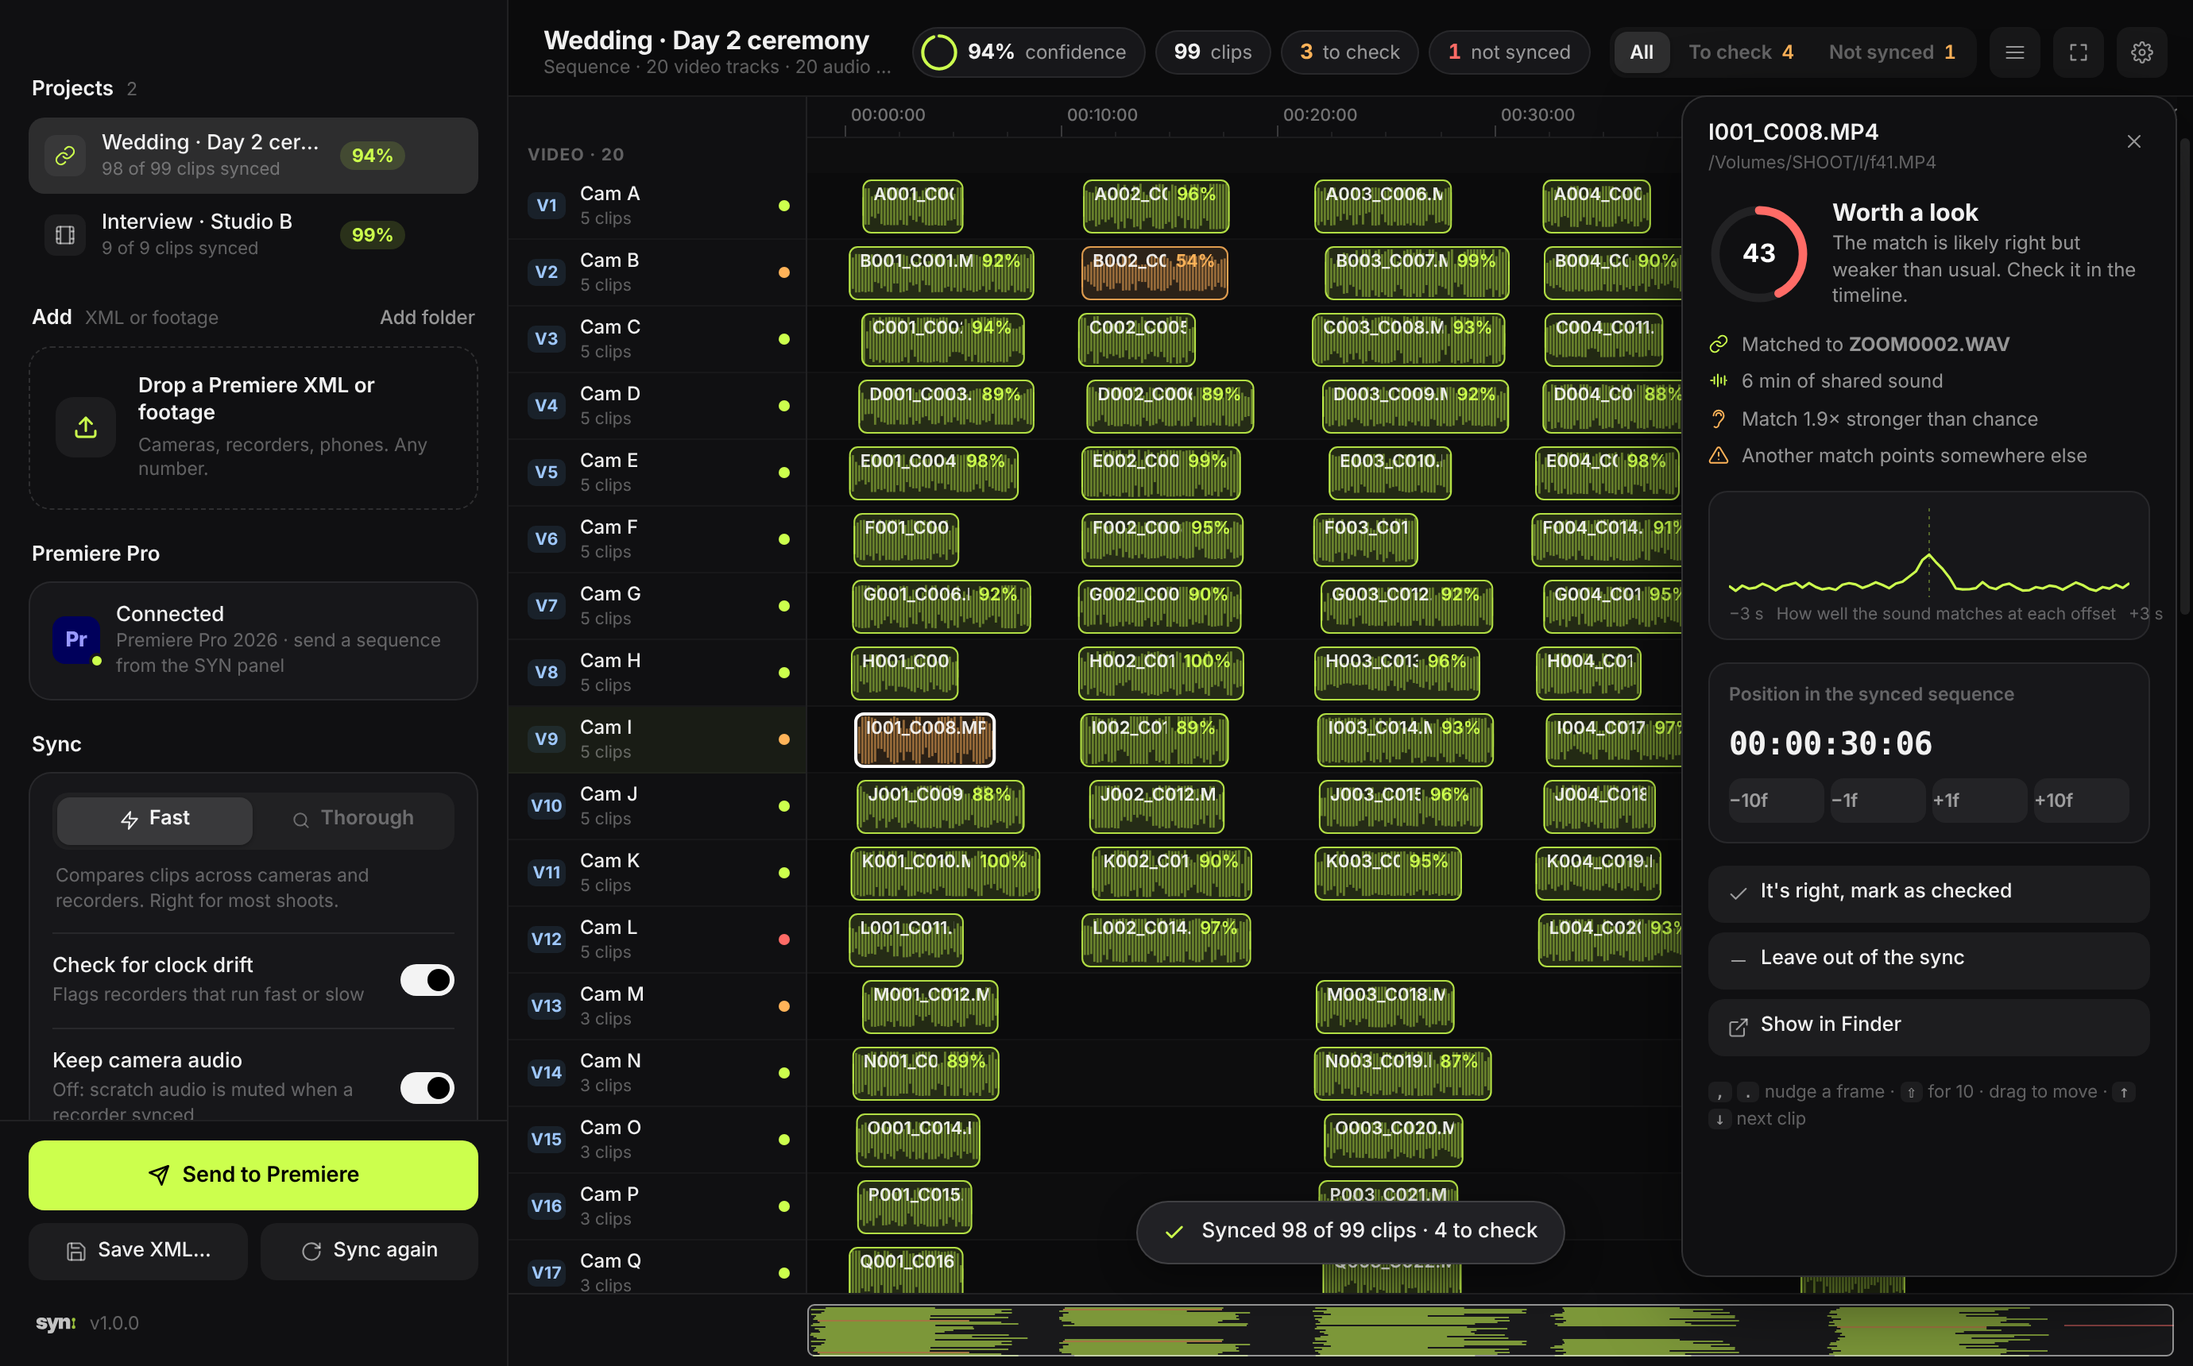
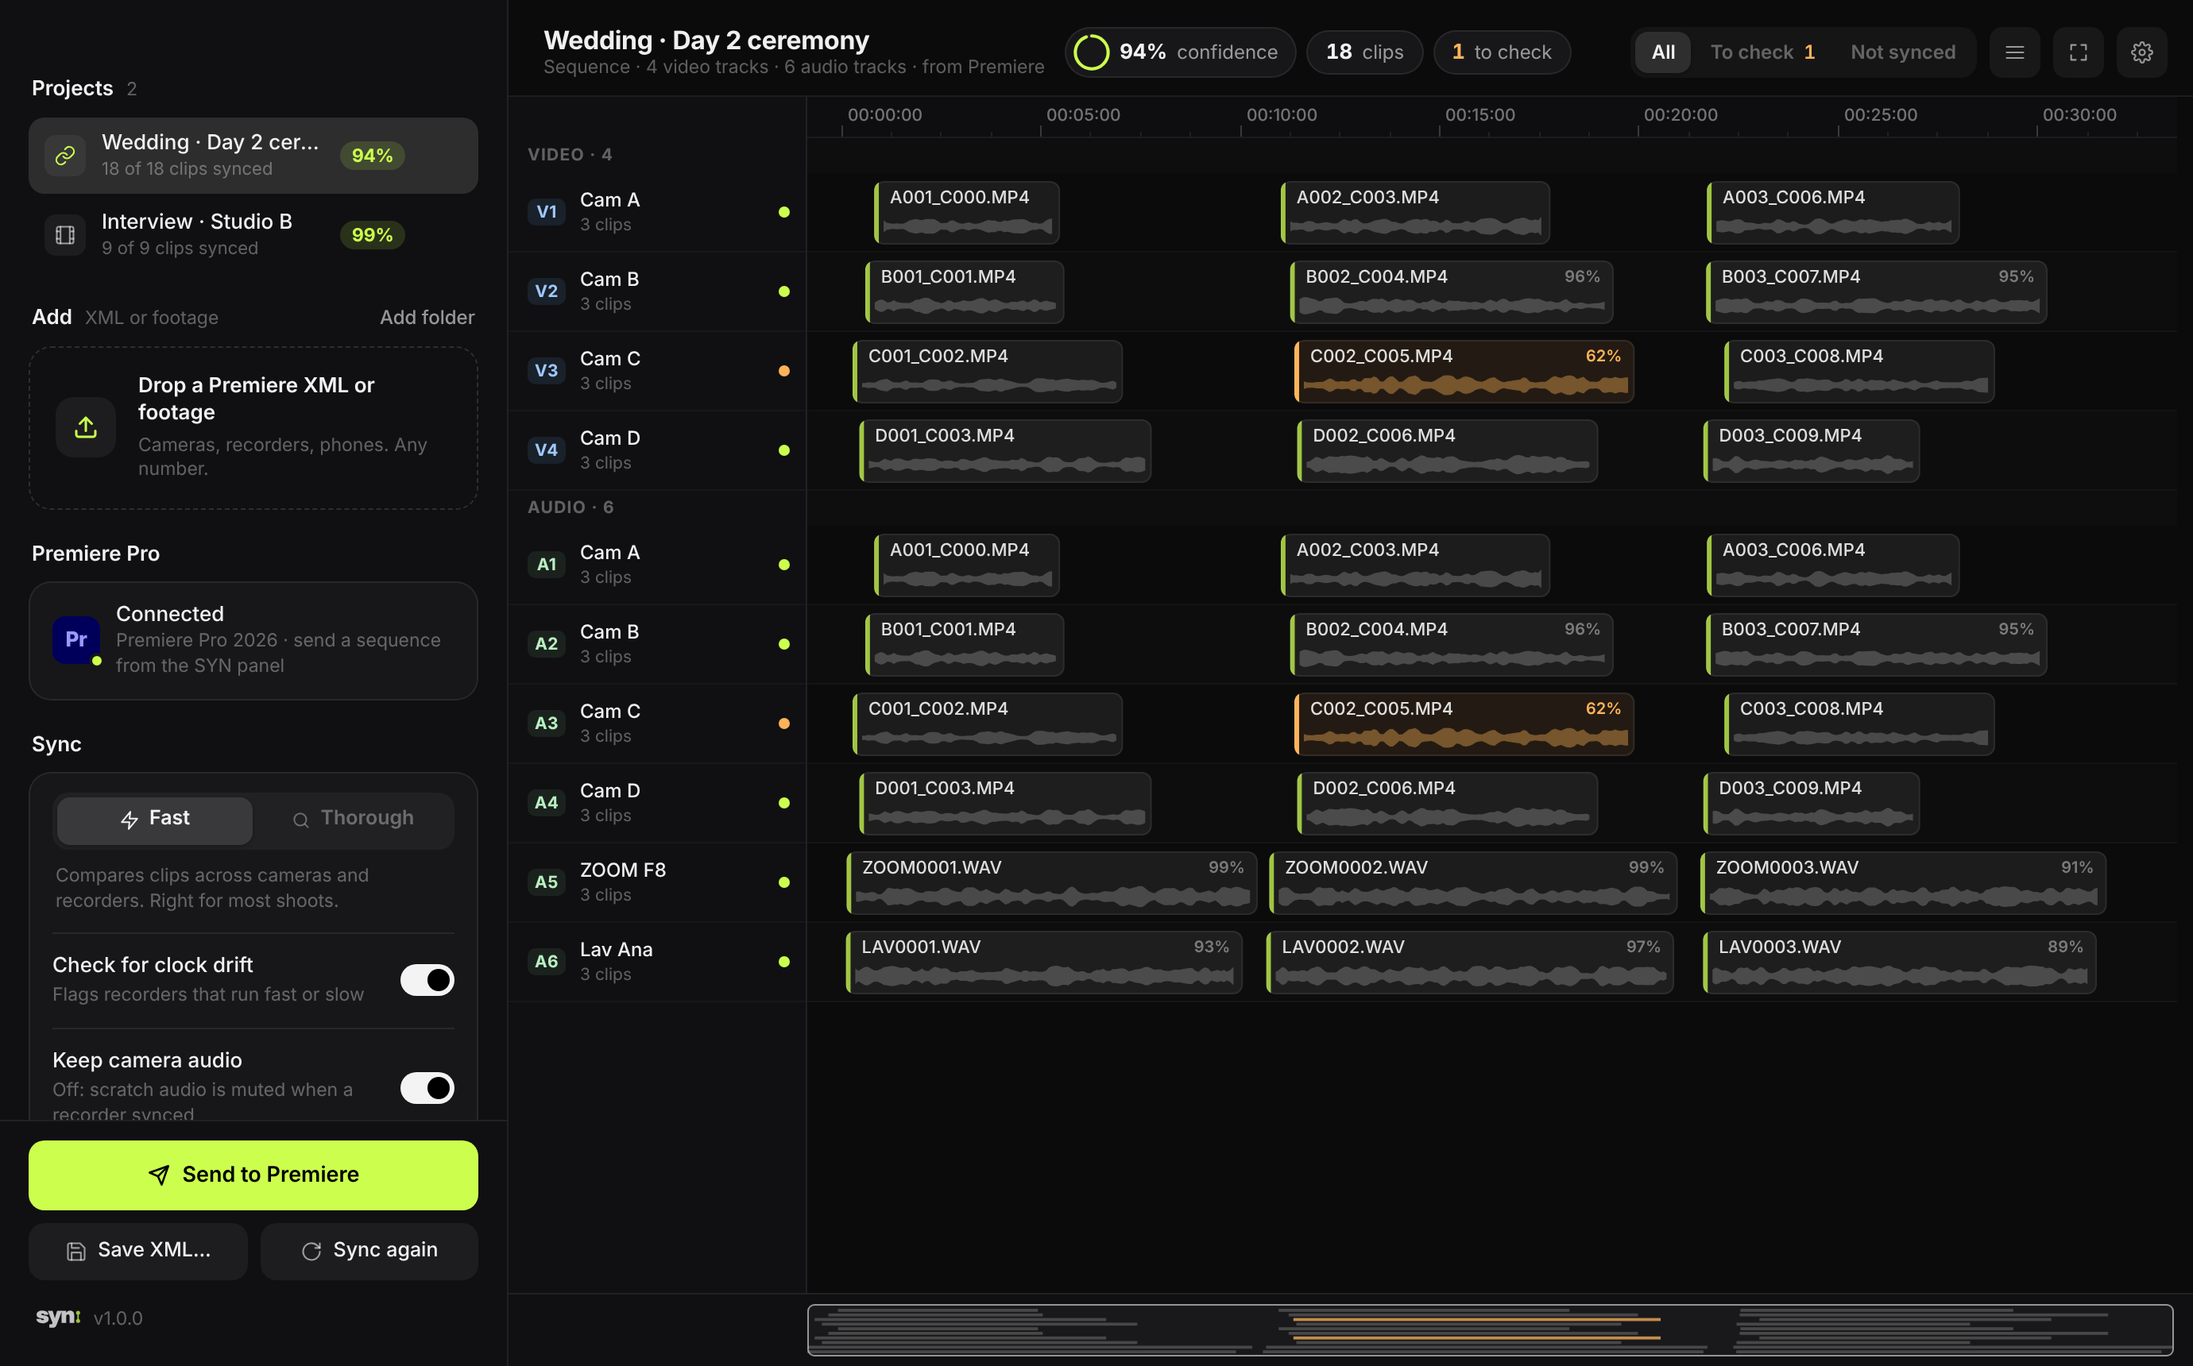
Calmer clip cards, aligned footer, new screenshot (#5)
* SYN: sync footage by sound, with Premiere bridge, multi-track UI and installers

Audio sync engine (onset fingerprints, FFT cross-correlation, GCC-PHAT refine,
global solve, drift check) with per-clip confidence; FCP7 XML in and synced XML
out; local HTTP/WebSocket bridge for the Premiere panel; canvas timeline UI built
for 40+ tracks; shared PXL auto-updater; brand kit; Windows setup wizard and
Mac DMG with release workflow.

Claude-Session: https://claude.ai/code/session_0153qDJUpbh52cK3RQXK8rru

* Add a SessionStart hook for Claude Code cloud sessions

Installs requirements.txt (minus pywebview) into the system Python, skipping the
install when requirements.txt and the hook are unchanged.

Claude-Session: https://claude.ai/code/session_0153qDJUpbh52cK3RQXK8rru

* Tests: use drive-letter paths on Windows, close mailbox files

Claude-Session: https://claude.ai/code/session_0153qDJUpbh52cK3RQXK8rru

* Bridge: skip the reverse DNS lookup when binding 127.0.0.1

HTTPServer.server_bind calls socket.getfqdn(), which can stall for seconds on
macOS. The bridge only listens on loopback, so set the name directly.

Claude-Session: https://claude.ai/code/session_0153qDJUpbh52cK3RQXK8rru

* Calmer clip cards, aligned footer, new screenshot

Clips are neutral cards with a slim status bar and a soft waveform under
the name; confidence shows only where there is room. Long names end in an
ellipsis instead of a hard cut. The footer mark and version share a baseline.
[…]

diff --git a/syn/ui/app.js b/syn/ui/app.js
@@ -55,7 +55,7 @@
   const landed = new Map();    // clip id -> time it landed (for the lock flash)
   let lanes = [], laneY = [], sections = [], clipsById = new Map(), contentH = 0;
 
-  const laneH = () => (settings.density === 'compact' ? 24 : 42);
+  const laneH = () => (settings.density === 'compact' ? 26 : 50);
   const confClass = (c) => (c >= 0.8 ? 'hi' : c >= 0.5 ? 'mid' : 'lo');
   function statusOf(c) {
     if (!P) return 'pending';
@@ -217,13 +217,14 @@
     c.arcTo(x, y + h, x, y, r); c.arcTo(x, y, x + w, y, r); c.closePath();
   }
 
+  // [body fill, status colour (left bar), waveform]
   const COLORS = {
-    pending: ['rgba(255,255,255,.07)', 'rgba(255,255,255,.34)', 'rgba(255,255,255,.12)'],
-    synced: ['rgba(204,255,77,.13)', 'rgba(204,255,77,.85)', 'rgba(204,255,77,.4)'],
-    low: ['rgba(255,179,89,.13)', 'rgba(255,179,89,.85)', 'rgba(255,179,89,.5)'],
-    unsynced: ['rgba(255,107,102,.08)', 'rgba(255,107,102,.6)', 'rgba(255,107,102,.4)'],
-    offline: ['rgba(255,107,102,.05)', 'rgba(255,107,102,.4)', 'rgba(255,107,102,.3)'],
-    excluded: ['rgba(255,255,255,.03)', 'rgba(255,255,255,.2)', 'rgba(255,255,255,.08)'],
+    pending: ['rgba(255,255,255,.055)', 'rgba(255,255,255,.28)', 'rgba(255,255,255,.13)'],
+    synced: ['rgba(255,255,255,.07)', 'rgba(204,255,77,.75)', 'rgba(255,255,255,.2)'],
+    low: ['rgba(255,179,89,.10)', WARN, 'rgba(255,179,89,.38)'],
+    unsynced: ['rgba(255,107,102,.07)', DANGER, 'rgba(255,107,102,.3)'],
+    offline: ['rgba(255,107,102,.04)', 'rgba(255,107,102,.6)', 'rgba(255,107,102,.22)'],
+    excluded: ['rgba(255,255,255,.025)', 'rgba(255,255,255,.18)', 'rgba(255,255,255,.07)'],
   };
 
   function draw() {
@@ -302,76 +303,110 @@
     const t = posOf(cl, now);
     const x = xOf(t), w = Math.max(2, cl.duration * view.pps);
     if (x > W || x + w < 0) return;
-    const pad = h > 30 ? 4 : 3;
-    const top = y + pad, ch = h - pad * 2;
+    const roomy = h > 30;
+    const pad = roomy ? 5 : 3;
+    const top = y + pad, ch = h - pad * 2, R = 6;
     const sel = view.sel === cl.id;
     const hov = view.hover === cl.id;
-    const [fill, edge, wave] = COLORS[st] || COLORS.pending;
+    const [fill, status, wave] = COLORS[st] || COLORS.pending;
+    const listening = reading.has(cl.id);
     c.globalAlpha = dim ? 0.25 : 1;
-    roundRect(c, x, top, w, ch, 5);
+    // body: a quiet card; the status is a slim bar on the left, not a coloured outline
+    roundRect(c, x, top, w, ch, R);
     c.fillStyle = fill; c.fill();
-    // waveform
+    if (sel || hov) { c.fillStyle = sel ? 'rgba(255,255,255,.07)' : 'rgba(255,255,255,.035)'; c.fill(); }
+    c.save(); roundRect(c, x, top, w, ch, R); c.clip();
+    if (w > 8) { c.fillStyle = status; c.fillRect(x, top, 3, ch); }
+    // waveform: one smooth, mirrored outline in the lower part of the card, under the name
     const env = envs.get(cl.id);
-    if (env && w > 6) {
-      c.save(); roundRect(c, x, top, w, ch, 5); c.clip();
-      c.fillStyle = st === 'pending' && reading.has(cl.id) ? 'rgba(204,255,77,.5)' : wave;
-      const mid = top + ch / 2;
-      const x0 = Math.max(0, x), x1 = Math.min(W, x + w);
-      const per = env.rate / view.pps;   // env samples per pixel
-      for (let px = Math.floor(x0); px < x1; px += 2) {
-        const s0 = Math.floor((px - x) * per), s1 = Math.max(s0 + 1, Math.floor((px + 2 - x) * per));
-        let m = 0;
-        for (let s = s0; s < s1 && s < env.data.length; s++) if (env.data[s] > m) m = env.data[s];
-        const a = (m / 255) * (ch / 2 - 2);
-        if (a > 0.4) c.fillRect(px, mid - a, 1.4, a * 2);
+    if (env && w > 24 && roomy) {
+      const band = ch - 21, mid = top + 19 + band / 2, amp = band / 2;
+      const x0 = Math.max(x + 6, 0), x1 = Math.min(x + w - 4, W);
+      const per = env.rate / view.pps, step = 2;
+      const pts = [];
+      for (let px = x0; px <= x1; px += step) {
+        const s0 = Math.floor((px - x) * per), s1 = Math.max(s0 + 1, Math.floor((px + step - x) * per));
+        let m = 0, n = 0;
+        for (let k = s0; k < s1 && k < env.data.length; k++) { m += env.data[k]; n++; }
+        pts.push([px, n ? m / n / 255 : 0]);
       }
-      c.restore();
+      for (let i = 1; i < pts.length - 1; i++) pts[i][1] = (pts[i - 1][1] + 2 * pts[i][1] + pts[i + 1][1]) / 4;
+      if (pts.length > 1) {
+        c.beginPath();
+        c.moveTo(pts[0][0], mid);
+        for (const [px, v] of pts) c.lineTo(px, mid - Math.max(0.6, v * amp));
+        for (let i = pts.length - 1; i >= 0; i--) c.lineTo(pts[i][0], mid + Math.max(0.6, pts[i][1] * amp));
+        c.closePath();
+        c.fillStyle = listening ? 'rgba(204,255,77,.45)' : wave;
+        c.fill();
+      }
     }
     // listening: a lime scan line sweeping the clip while its sound is read
-    if (reading.has(cl.id)) {
+    if (listening) {
       const k = (now / 900) % 1;
       const sx = x + k * w;
       const g = c.createLinearGradient(sx - 40, 0, sx, 0);
-      g.addColorStop(0, 'rgba(204,255,77,0)'); g.addColorStop(1, 'rgba(204,255,77,.45)');
-      c.save(); roundRect(c, x, top, w, ch, 5); c.clip();
+      g.addColorStop(0, 'rgba(204,255,77,0)'); g.addColorStop(1, 'rgba(204,255,77,.3)');
       c.fillStyle = g; c.fillRect(sx - 40, top, 40, ch);
       c.fillStyle = ACCENT; c.fillRect(sx, top, 1.5, ch);
-      c.restore();
     }
-    // edge
-    roundRect(c, x + 0.5, top + 0.5, w - 1, ch - 1, 5);
-    c.lineWidth = sel ? 2 : 1;
-    c.strokeStyle = sel ? '#fff' : (hov ? 'rgba(255,255,255,.5)' : edge);
-    if (st === 'unsynced' || st === 'offline') c.setLineDash([4, 3]);
+    c.restore();
+    // edge: a hairline, white when selected, dashed when it couldn't be placed
+    roundRect(c, x + 0.5, top + 0.5, w - 1, ch - 1, R);
+    c.lineWidth = sel ? 1.5 : 1;
+    c.strokeStyle = sel ? 'rgba(255,255,255,.95)' : hov ? 'rgba(255,255,255,.28)' : 'rgba(255,255,255,.07)';
+    if (st === 'unsynced' || st === 'offline') { c.setLineDash([4, 3]); if (!sel && !hov) c.strokeStyle = 'rgba(255,107,102,.45)'; }
     c.stroke(); c.setLineDash([]);
     // lock flash when it lands
     const lt = landed.get(cl.id);
     if (lt != null && now - lt < 700) {
       const k = (now - lt) / 700;
-      roundRect(c, x - 3 * k, top - 3 * k, w + 6 * k, ch + 6 * k, 6);
-      c.strokeStyle = `rgba(204,255,77,${0.8 * (1 - k)})`; c.lineWidth = 2; c.stroke();
+      roundRect(c, x - 3 * k, top - 3 * k, w + 6 * k, ch + 6 * k, R + 1);
+      c.strokeStyle = `rgba(204,255,77,${0.7 * (1 - k)})`; c.lineWidth = 1.5; c.stroke();
     }
-    // label
+    // name, and the confidence in small type at the right end
     if (w > 46 && h > 20) {
-      c.save(); c.beginPath(); c.rect(x + 6, top, w - 12, ch); c.clip();
-      c.font = `600 ${h > 30 ? 11 : 10}px ` + getComputedStyle(document.body).fontFamily;
-      c.textBaseline = 'top';
-      c.fillStyle = 'rgba(255,255,255,.9)';
-      const ty = h > 30 ? top + 4 : top + (ch - 11) / 2;
-      // the confidence sits at the right end; the name gets whatever room is left
+      c.save(); c.beginPath(); c.rect(x + 8, top, w - 14, ch); c.clip();
+      c.font = `500 ${roomy ? 11 : 10.5}px ` + getComputedStyle(document.body).fontFamily;
+      c.textBaseline = 'middle';
+      const ty = roomy ? top + 10.5 : top + ch / 2;
       let label = '', tw = 0;
-      if (P.state === 'review' && (st === 'synced' || st === 'low') && w > 90) {
+      if (P.state === 'review' && ((st === 'synced' && w > 190) || (st === 'low' && w > 110))) {
         label = Math.round(cl.confidence * 100) + '%';
+        c.font = `600 10px ` + getComputedStyle(document.body).fontFamily;
         tw = c.measureText(label).width;
+        c.font = `500 ${roomy ? 11 : 10.5}px ` + getComputedStyle(document.body).fontFamily;
       }
-      const lx = label ? Math.min(x + w - tw - 8, Math.max(x + 7, W - tw - 8)) : x + w;
-      c.save(); c.beginPath(); c.rect(x + 6, top, Math.max(0, lx - x - 12), ch); c.clip();
-      c.fillText(cl.name, x + 7, ty);
+      const lx = label ? Math.min(x + w - tw - 8, Math.max(x + 10, W - tw - 8)) : x + w;
+      c.save(); c.beginPath(); c.rect(x + 8, top, Math.max(0, lx - x - 16), ch); c.clip();
+      c.fillStyle = st === 'excluded' ? 'rgba(255,255,255,.4)' : 'rgba(255,255,255,.86)';
+      c.fillText(fitLabel(c, cl.name, lx - x - 18), x + 10, ty);
       c.restore();
-      if (label) { c.fillStyle = st === 'synced' ? ACCENT : WARN; c.fillText(label, lx, ty); }
+      if (label) {
+        c.font = `600 10px ` + getComputedStyle(document.body).fontFamily;
+        c.fillStyle = st === 'synced' ? 'rgba(255,255,255,.42)' : WARN;
+        c.fillText(label, lx, ty);
+      }
       c.restore();
     }
     c.globalAlpha = 1;
+  }
+
+  // shorten a label to fit, with an ellipsis instead of a hard cut mid-letter
+  const fitCache = new Map();
+  function fitLabel(c, s, max) {
+    const key = c.font + '|' + s + '|' + Math.round(max);
+    let r = fitCache.get(key);
+    if (r != null) return r;
+    if (c.measureText(s).width <= max) r = s;
+    else {
+      let lo = 0, hi = s.length;
+      while (lo < hi) { const m = (lo + hi + 1) >> 1; if (c.measureText(s.slice(0, m) + '…').width <= max) lo = m; else hi = m - 1; }
+      r = lo ? s.slice(0, lo).replace(/[ ._-]+$/, '') + '…' : '';
+    }
+    if (fitCache.size > 4000) fitCache.clear();
+    fitCache.set(key, r);
+    return r;
   }
 
   function drawOverview() {
@@ -390,9 +425,10 @@
         const st = statusOf(cl);
         const s = P.state === 'review' ? (cl.at != null ? cl.at : unsyncedAt.get(cl.id)) : pre.get(cl.id);
         if (s == null) continue;
-        c.fillStyle = st === 'synced' ? 'rgba(204,255,77,.55)' : st === 'low' ? 'rgba(255,179,89,.6)' :
-          st === 'unsynced' || st === 'offline' ? 'rgba(255,107,102,.5)' : 'rgba(255,255,255,.25)';
-        c.fillRect(((s - a) / span) * w, 2 + i * lh, Math.max(1, (cl.duration / span) * w), Math.max(1, lh - (lh > 3 ? 1 : 0)));
+        // neutral clips, colour only where something needs a look
+        c.fillStyle = st === 'low' ? 'rgba(255,179,89,.75)' : st === 'unsynced' || st === 'offline' ? 'rgba(255,107,102,.7)' :
+          st === 'synced' ? 'rgba(255,255,255,.2)' : 'rgba(255,255,255,.14)';
+        c.fillRect(((s - a) / span) * w, 3 + i * lh, Math.max(1, (cl.duration / span) * w - 1), Math.max(1, lh - (lh > 2.5 ? 1 : 0)));
       }
     });
     // viewport

diff --git a/syn/ui/demo.js b/syn/ui/demo.js
@@ -4,8 +4,10 @@
 // ?demo=review   already synced, with a clip to check selected
 // ?demo=empty    no project
 // ?demo=welcome  first launch
+// &small         a small shoot (4 cameras, 2 recorders), for the README screenshot
 const Q = new URLSearchParams(location.search);
 const MODE = Q.get('demo') || 'ready';
+const SMALL = Q.has('small');
 
 let seed = 7;
 const rnd = () => ((seed = (seed * 16807) % 2147483647) / 2147483647);
@@ -26,13 +28,15 @@ function envFor(dur, loud) {
 }
 
 function makeProject() {
-  const CAMS = 'ABCDEFGHIJKLMNOPQRST'.split('');
-  const TAKES = [0, 640, 1290, 1900, 2610];
+  const CAMS = (SMALL ? 'ABCD' : 'ABCDEFGHIJKLMNOPQRST').split('');
+  const TAKES = SMALL ? [0, 640, 1290] : [0, 640, 1290, 1900, 2610];
+  const CAM_AUDIO = Math.min(14, CAMS.length);
+  const RECS = SMALL ? ['ZOOM F8', 'Lav Ana'] : ['ZOOM F8 · 1', 'ZOOM F8 · 2', 'Lav Ana', 'Lav Ravi', 'Boom', 'Room'];
   const lanes = [], clips = [], env = {};
   CAMS.forEach((c, i) => lanes.push({ id: 'v' + (i + 1), label: 'V' + (i + 1), kind: 'video', name: `Cam ${c}` }));
-  for (let i = 0; i < 14; i++) lanes.push({ id: 'a' + (i + 1), label: 'A' + (i + 1), kind: 'audio', name: `Cam ${CAMS[i]}` });
-  ['ZOOM F8 · 1', 'ZOOM F8 · 2', 'Lav Ana', 'Lav Ravi', 'Boom', 'Room'].forEach((n, i) =>
-    lanes.push({ id: 'a' + (15 + i), label: 'A' + (15 + i), kind: 'audio', name: n }));
+  for (let i = 0; i < CAM_AUDIO; i++) lanes.push({ id: 'a' + (i + 1), label: 'A' + (i + 1), kind: 'audio', name: `Cam ${CAMS[i]}` });
+  RECS.forEach((n, i) =>
+    lanes.push({ id: 'a' + (CAM_AUDIO + 1 + i), label: 'A' + (CAM_AUDIO + 1 + i), kind: 'audio', name: n }));
 
   let k = 0;
   const truth = {};
@@ -44,14 +48,15 @@ function makeProject() {
       const at = T + (rnd() - 0.5) * 50;
       truth[id] = at;
       const ln = ['v' + (ci + 1)];
-      if (ci < 14) ln.push('a' + (ci + 1));
+      if (ci < CAM_AUDIO) ln.push('a' + (ci + 1));
       clips.push({ id, name: `${c}${String(ti + 1).padStart(3, '0')}_C${String(ti * 3 + ci).padStart(3, '0')}.MP4`, path: `/Volumes/SHOOT/${c}/${id}.MP4`,
         lanes: ln, duration: +dur.toFixed(3), video: true, channels: 2, orig: null });
       env[id] = envFor(dur, 0.6 + rnd() * 0.3);
     });
   });
-  const rec = [['a15', 'a16'], ['a17', 'a18'], ['a19', 'a20']];
-  const recName = ['ZOOM', 'LAV', 'BOOM'];
+  const R = (i) => 'a' + (CAM_AUDIO + 1 + i);
+  const rec = SMALL ? [[R(0)], [R(1)]] : [[R(0), R(1)], [R(2), R(3)], [R(4), R(5)]];
+  const recName = SMALL ? ['ZOOM', 'LAV'] : ['ZOOM', 'LAV', 'BOOM'];
   rec.forEach((ln, ri) => TAKES.forEach((T, ti) => {
     const id = `f${++k}`;
     const dur = 560 + rnd() * 60;
@@ -78,8 +83,8 @@ function makeProject() {
 
 function synced(P, truth) {
   const recs = P.clips.filter((c) => !c.video);
-  const low = new Set(['f7', 'f41', 'f63']);
-  const lost = new Set(['f58']);
+  const low = new Set(SMALL ? ['f8'] : ['f7', 'f41', 'f63']);
+  const lost = new Set(SMALL ? [] : ['f58']);
   for (const c of P.clips) {
     const best = recs[Math.floor(rnd() * recs.length)];
     const curve = Array.from({ length: 61 }, (_, i) => Math.exp(-((i - 30) ** 2) / 6) * (low.has(c.id) ? 0.45 : 1) + rnd() * 0.12);

diff --git a/syn/ui/styles.css b/syn/ui/styles.css
@@ -171,7 +171,9 @@ body.win .titlebar { display: none; }
 #footer { padding: 4px 22px 14px; display: flex; flex-direction: column; gap: 6px; color: var(--text3); font-size: 11.5px; }
 #footer .frow { display: flex; align-items: center; gap: 8px; min-height: 16px; }
 #footer .frow:empty { display: none; }
-#footer .brandrow { min-height: 24px; }
+#footer .brandrow { min-height: 24px; align-items: baseline; }
+/* the mark's baseline sits 30% above its bottom edge (the y descender): drop it so "syn" and the version share a baseline */
+#footer .brandrow .mark-sm { height: 12px; position: relative; top: 2px; transform: translateY(.5px); }
 #footer .update-pill { margin-left: auto; }
 .update-pill { display: inline-flex; align-items: center; gap: 6px; padding: 4px 10px; border-radius: 999px; background: var(--accent);
   color: #000; font-weight: 600; font-size: 11.5px; white-space: nowrap; animation: up .3s ease-out; }

diff --git a/README.md b/README.md
@@ -17,7 +17,7 @@
 </p>
 
 <p align="center">
-  <img src="docs/screenshot.png" width="880" alt="SYN with a 40-track wedding sequence synced, one clip selected for checking">
+  <img src="docs/screenshot.png" width="880" alt="SYN with a 10-track wedding sequence synced, one clip flagged to check">
 </p>
 
 ## Download
